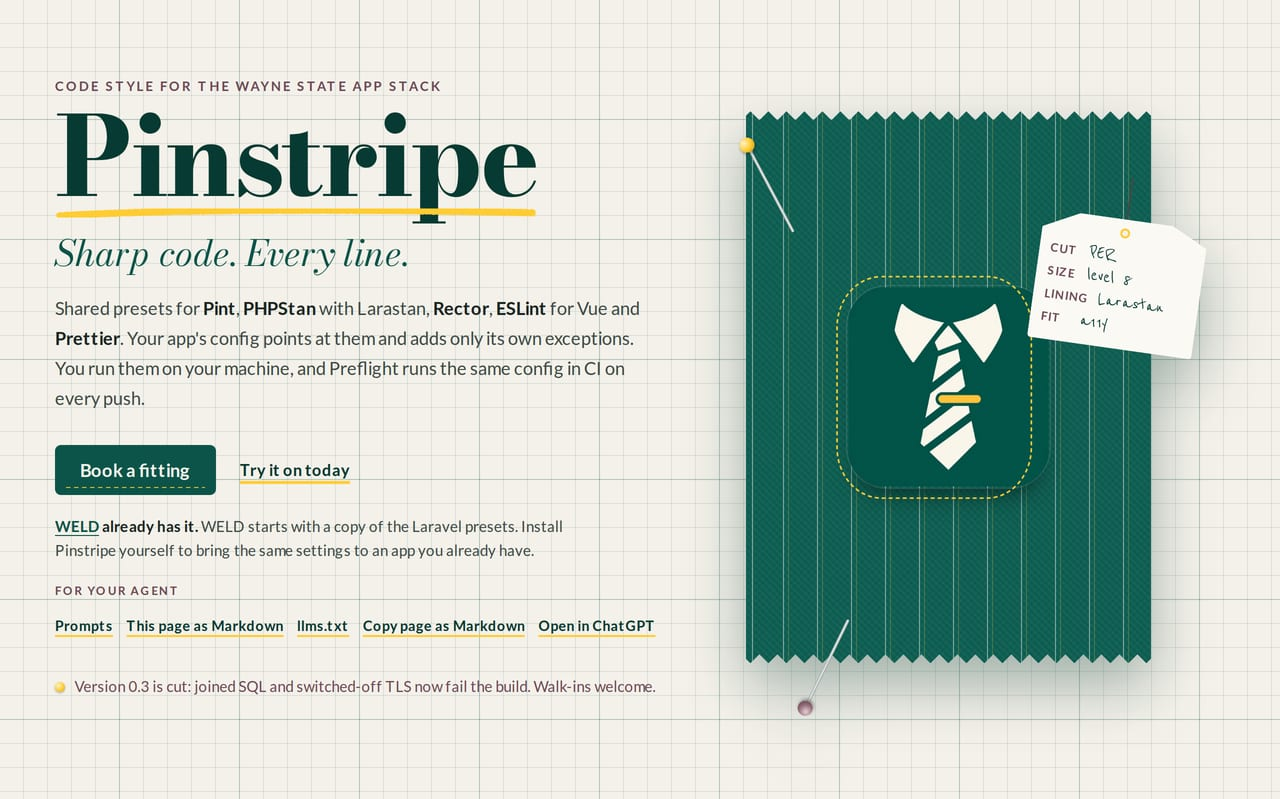
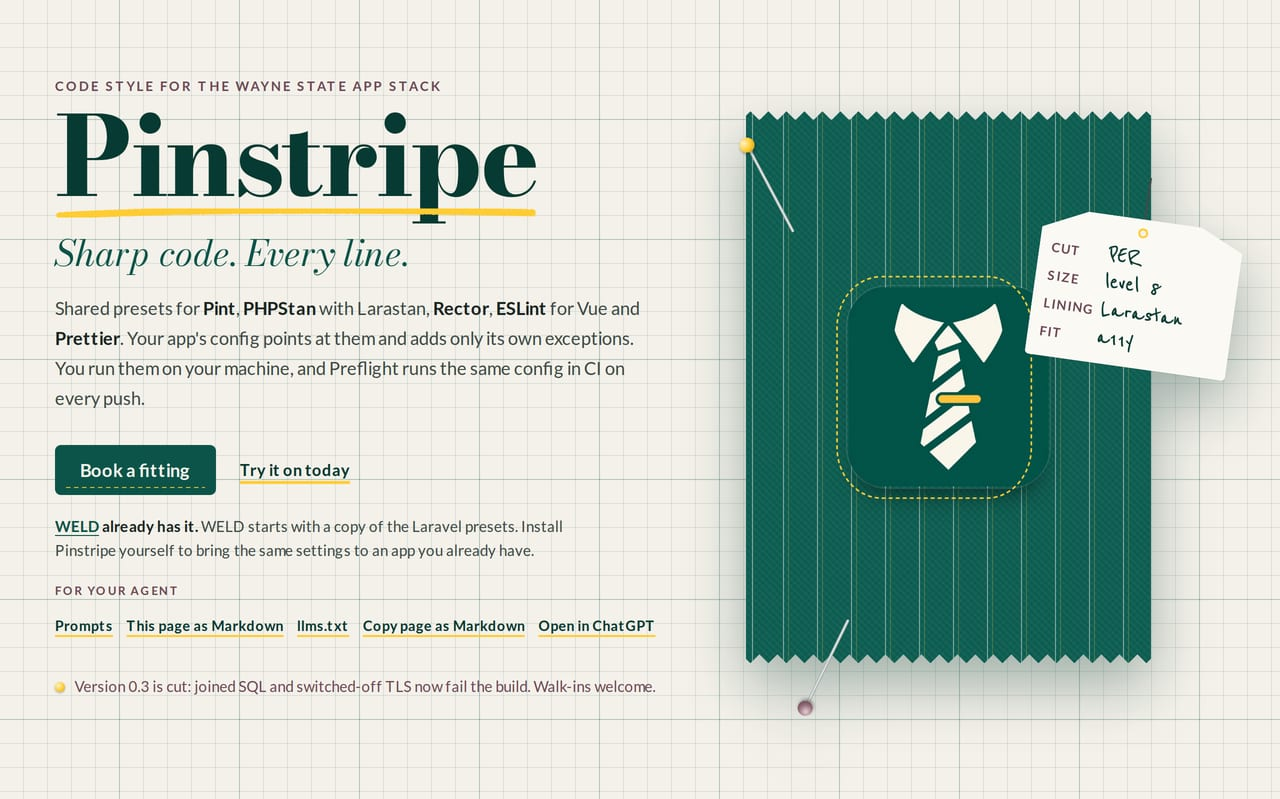
Site: the hero's hang tag can be read on a phone
The tag's handwriting was 12.5px and its labels 6.9px at 390 px wide. It now
grows leftward from the same edge, lays labels and values out as a two-column
grid, and floors them at 17px and 9px. README hero rebuilt in the pinned
Playwright image; a11y gate clean on light and dark, 320 and 1280 px.

Changed region(s): [[0.7812, 0.2703, 1.0, 0.5106], [0.8438, 0.2403, 0.875, 0.2703]]

diff --git a/site/assets/pinstripe.css b/site/assets/pinstripe.css
@@ -519,12 +519,14 @@ h1, h2, h3 {
   background: radial-gradient(circle at 35% 30%, #e7cdd6, var(--ps-mauve) 55%, #5d3f4b);
 }
 
-/* The hang tag, on a string from the cloth's corner. */
+/* The hang tag, on a string from the cloth's corner. Its left edge stays clear
+   of the label; the extra width hangs out past the art, into the margin, so
+   the writing can be big enough to read on a phone. */
 .tag {
   position: absolute;
-  right: -2%;
+  right: -10%;
   top: 12%;
-  width: 36%;
+  width: 44%;
   transform: rotate(8deg);
   transform-origin: 50% 0;
 }
@@ -537,11 +539,15 @@ h1, h2, h3 {
   background: var(--ps-ink-soft);
 }
 
+/* Two columns, labels and the tailor's handwriting, lined up like a real
+   ticket, so the values start on one chalk line. */
 .tag__card {
   position: relative;
   display: grid;
-  gap: 0.05rem;
-  padding: 1.6rem 0.7rem 0.8rem;
+  grid-template-columns: max-content 1fr;
+  align-items: baseline;
+  gap: 0.15rem 0.4rem;
+  padding: 1.6rem 0.75rem 0.85rem;
   background: var(--ps-tissue);
   border-radius: 6px 6px 4px 4px;
   clip-path: polygon(22% 0, 78% 0, 100% 14%, 100% 100%, 0 100%, 0 14%);
@@ -560,19 +566,22 @@ h1, h2, h3 {
   box-shadow: inset 0 0 0 2px var(--ps-gold);
 }
 
+/* Reenie Beanie is a thin hand with a small x-height, so it gets a floor of
+   17px, and a hairline stroke to put some pencil pressure behind it. */
 .tag__row {
+  display: contents;
   font-family: var(--ps-chalk);
-  font-size: 4.6cqi;
-  line-height: 1.05;
+  font-size: max(1.0625rem, 5.6cqi);
+  line-height: 1;
   color: var(--ps-green-deep);
   white-space: nowrap;
+  -webkit-text-stroke: 0.02em currentColor;
 }
 
 .tag__row b {
-  display: inline-block;
-  min-width: 2.6em;
   font-family: var(--wsu-font-family-body);
-  font-size: 0.55em;
+  font-size: max(0.5625rem, 0.5em);
+  -webkit-text-stroke: 0;
   font-weight: var(--wsu-font-weight-bold);
   letter-spacing: 0.08em;
   text-transform: uppercase;

diff --git a/site/docs/changelog.html b/site/docs/changelog.html
@@ -46,6 +46,7 @@
 <ul>
 <li>Added: <code>rector/strict-types.php</code>, an opt-in Rector preset for the careful route to strict types on an old app. It runs Rector's <code>SafeDeclareStrictTypesRector</code> and nothing else, so it adds <code>declare(strict_types=1)</code> only to files whose calls, returns and property assignments already pass the types they ask for, and leaves the rest for a later run. Opt-in, so no app sees a change until it points a config at it. New fixture <code>tests/fixtures/rector-strict-types</code> with <code>PresetsTest::testRectorStrictTypesPresetDeclaresOnlyTheSafeFile</code> and <code>testRectorStrictTypesPresetLeavesTheCoercingFileAlone</code>; the README, Require strict types and Rector guides show it, and BEST_PRACTICES.md gains the row (24 rows, 24 Enforced).</li>
 <li>Site: the front page's &quot;Just off the cutting table&quot; note says what 0.3.2 brought (it still led with 0.3.0), and new <code>tests/FrontPageTest.php</code> fails <code>composer ci</code> while the note names anything but the newest CHANGELOG release, so it cannot fall behind again. The release steps in MAINTAINING.md and on the Releasing page say to rewrite it in the release commit.</li>
+<li>Site: the hero's hang tag can be read on a phone. Its handwriting was 12px and its labels 7px at 390 px wide; now the writing never drops below 17px (with a hairline stroke behind the thin hand), the labels never below 9px, and the labels and values line up in two columns like a real ticket. The tag is wider, and the extra width hangs out past the cloth into the margin, so it covers no more of the label than before. The README hero is rebuilt to match.</li>
 </ul>
 <h2 id="0-3-2-2026-11-10">0.3.2 <span class="docs-heading-tail"><span>(2026-11-10)</span><a class="docs-heading-link" aria-label="Link to this section" href="#0-3-2-2026-11-10">#</a></span></h2>
 <ul>

diff --git a/site/docs/changelog.md b/site/docs/changelog.md
@@ -14,6 +14,7 @@ All notable changes to Pinstripe are documented here.
 
 - Added: `rector/strict-types.php`, an opt-in Rector preset for the careful route to strict types on an old app. It runs Rector's `SafeDeclareStrictTypesRector` and nothing else, so it adds `declare(strict_types=1)` only to files whose calls, returns and property assignments already pass the types they ask for, and leaves the rest for a later run. Opt-in, so no app sees a change until it points a config at it. New fixture `tests/fixtures/rector-strict-types` with `PresetsTest::testRectorStrictTypesPresetDeclaresOnlyTheSafeFile` and `testRectorStrictTypesPresetLeavesTheCoercingFileAlone`; the README, Require strict types and Rector guides show it, and BEST_PRACTICES.md gains the row (24 rows, 24 Enforced).
 - Site: the front page's "Just off the cutting table" note says what 0.3.2 brought (it still led with 0.3.0), and new `tests/FrontPageTest.php` fails `composer ci` while the note names anything but the newest CHANGELOG release, so it cannot fall behind again. The release steps in MAINTAINING.md and on the Releasing page say to rewrite it in the release commit.
+- Site: the hero's hang tag can be read on a phone. Its handwriting was 12px and its labels 7px at 390 px wide; now the writing never drops below 17px (with a hairline stroke behind the thin hand), the labels never below 9px, and the labels and values line up in two columns like a real ticket. The tag is wider, and the extra width hangs out past the cloth into the margin, so it covers no more of the label than before. The README hero is rebuilt to match.
 
 ## 0.3.2 (2026-11-10) [#](https://pinstripe.apps.wayne.edu/docs/changelog.html#0-3-2-2026-11-10)
 

diff --git a/docs/changelog.md b/docs/changelog.md
@@ -13,6 +13,7 @@ All notable changes to Pinstripe are documented here.
 
 - Added: `rector/strict-types.php`, an opt-in Rector preset for the careful route to strict types on an old app. It runs Rector's `SafeDeclareStrictTypesRector` and nothing else, so it adds `declare(strict_types=1)` only to files whose calls, returns and property assignments already pass the types they ask for, and leaves the rest for a later run. Opt-in, so no app sees a change until it points a config at it. New fixture `tests/fixtures/rector-strict-types` with `PresetsTest::testRectorStrictTypesPresetDeclaresOnlyTheSafeFile` and `testRectorStrictTypesPresetLeavesTheCoercingFileAlone`; the README, Require strict types and Rector guides show it, and BEST_PRACTICES.md gains the row (24 rows, 24 Enforced).
 - Site: the front page's "Just off the cutting table" note says what 0.3.2 brought (it still led with 0.3.0), and new `tests/FrontPageTest.php` fails `composer ci` while the note names anything but the newest CHANGELOG release, so it cannot fall behind again. The release steps in MAINTAINING.md and on the Releasing page say to rewrite it in the release commit.
+- Site: the hero's hang tag can be read on a phone. Its handwriting was 12px and its labels 7px at 390 px wide; now the writing never drops below 17px (with a hairline stroke behind the thin hand), the labels never below 9px, and the labels and values line up in two columns like a real ticket. The tag is wider, and the extra width hangs out past the cloth into the margin, so it covers no more of the label than before. The README hero is rebuilt to match.
 
 ## 0.3.2 (2026-11-10)
 

diff --git a/CHANGELOG.md b/CHANGELOG.md
@@ -6,6 +6,7 @@ All notable changes to Pinstripe are documented here.
 
 - Added: `rector/strict-types.php`, an opt-in Rector preset for the careful route to strict types on an old app. It runs Rector's `SafeDeclareStrictTypesRector` and nothing else, so it adds `declare(strict_types=1)` only to files whose calls, returns and property assignments already pass the types they ask for, and leaves the rest for a later run. Opt-in, so no app sees a change until it points a config at it. New fixture `tests/fixtures/rector-strict-types` with `PresetsTest::testRectorStrictTypesPresetDeclaresOnlyTheSafeFile` and `testRectorStrictTypesPresetLeavesTheCoercingFileAlone`; the README, Require strict types and Rector guides show it, and BEST_PRACTICES.md gains the row (24 rows, 24 Enforced).
 - Site: the front page's "Just off the cutting table" note says what 0.3.2 brought (it still led with 0.3.0), and new `tests/FrontPageTest.php` fails `composer ci` while the note names anything but the newest CHANGELOG release, so it cannot fall behind again. The release steps in MAINTAINING.md and on the Releasing page say to rewrite it in the release commit.
+- Site: the hero's hang tag can be read on a phone. Its handwriting was 12px and its labels 7px at 390 px wide; now the writing never drops below 17px (with a hairline stroke behind the thin hand), the labels never below 9px, and the labels and values line up in two columns like a real ticket. The tag is wider, and the extra width hangs out past the cloth into the margin, so it covers no more of the label than before. The README hero is rebuilt to match.
 
 ## 0.3.2 (2026-11-10)
 
